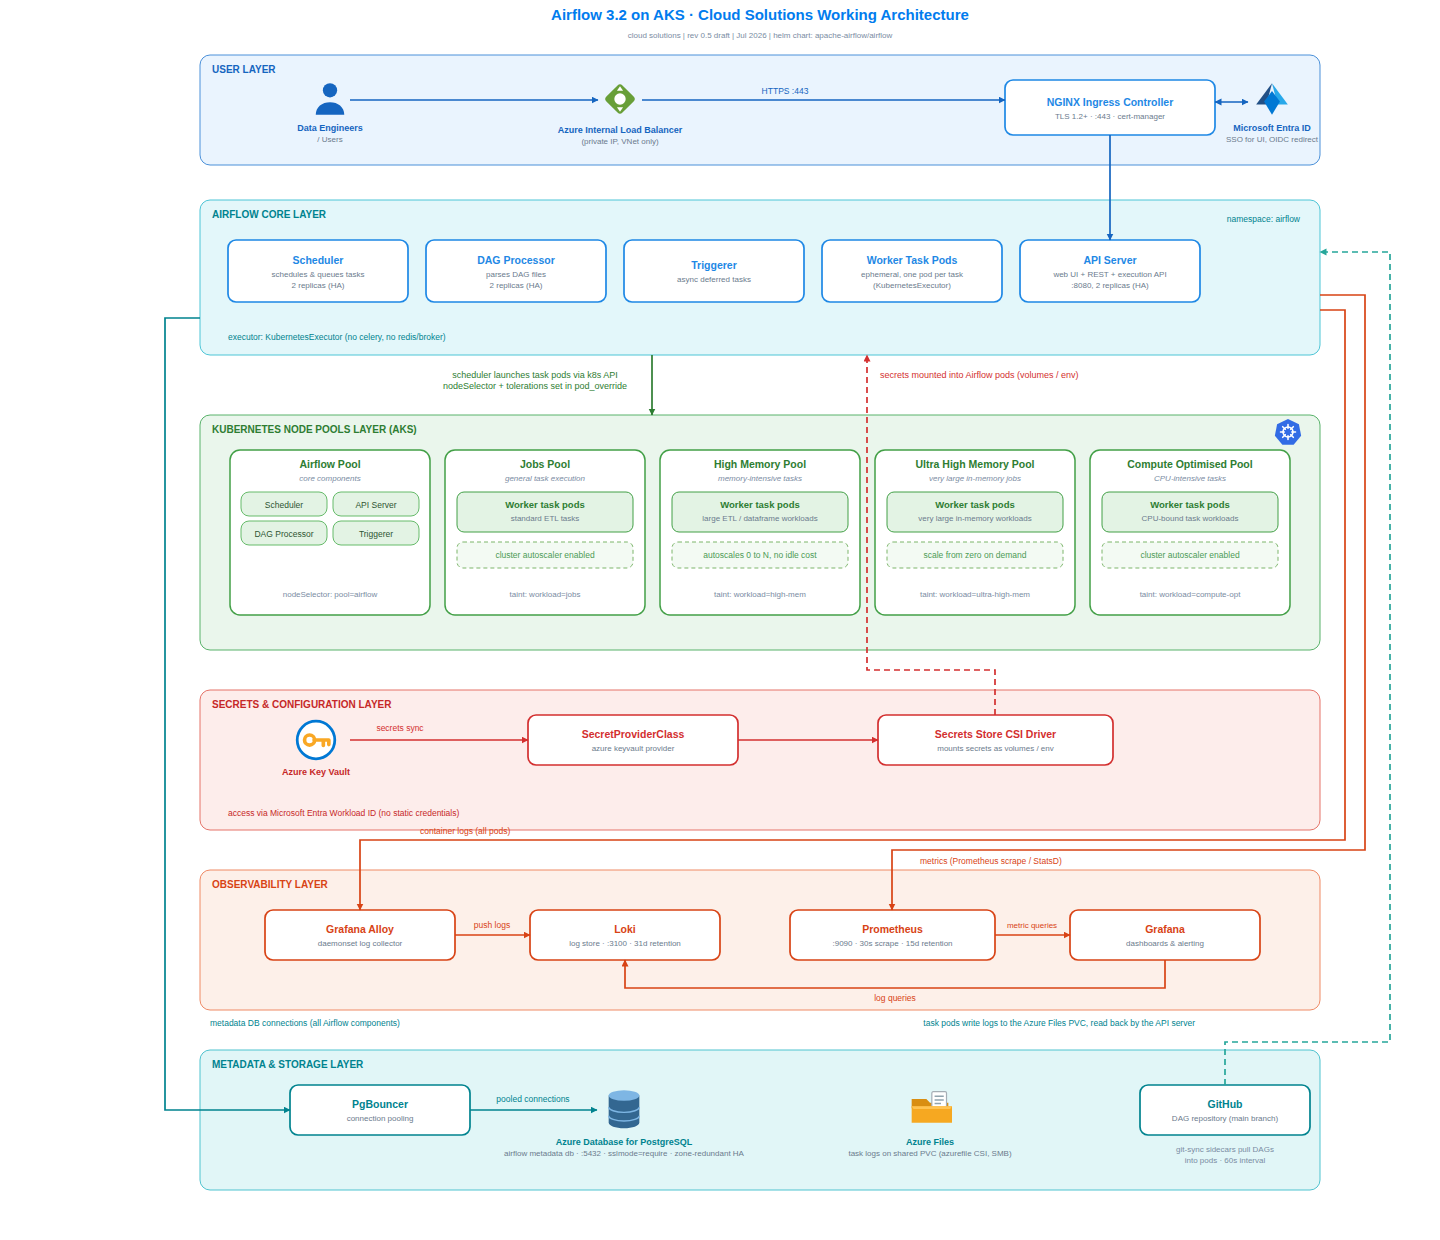
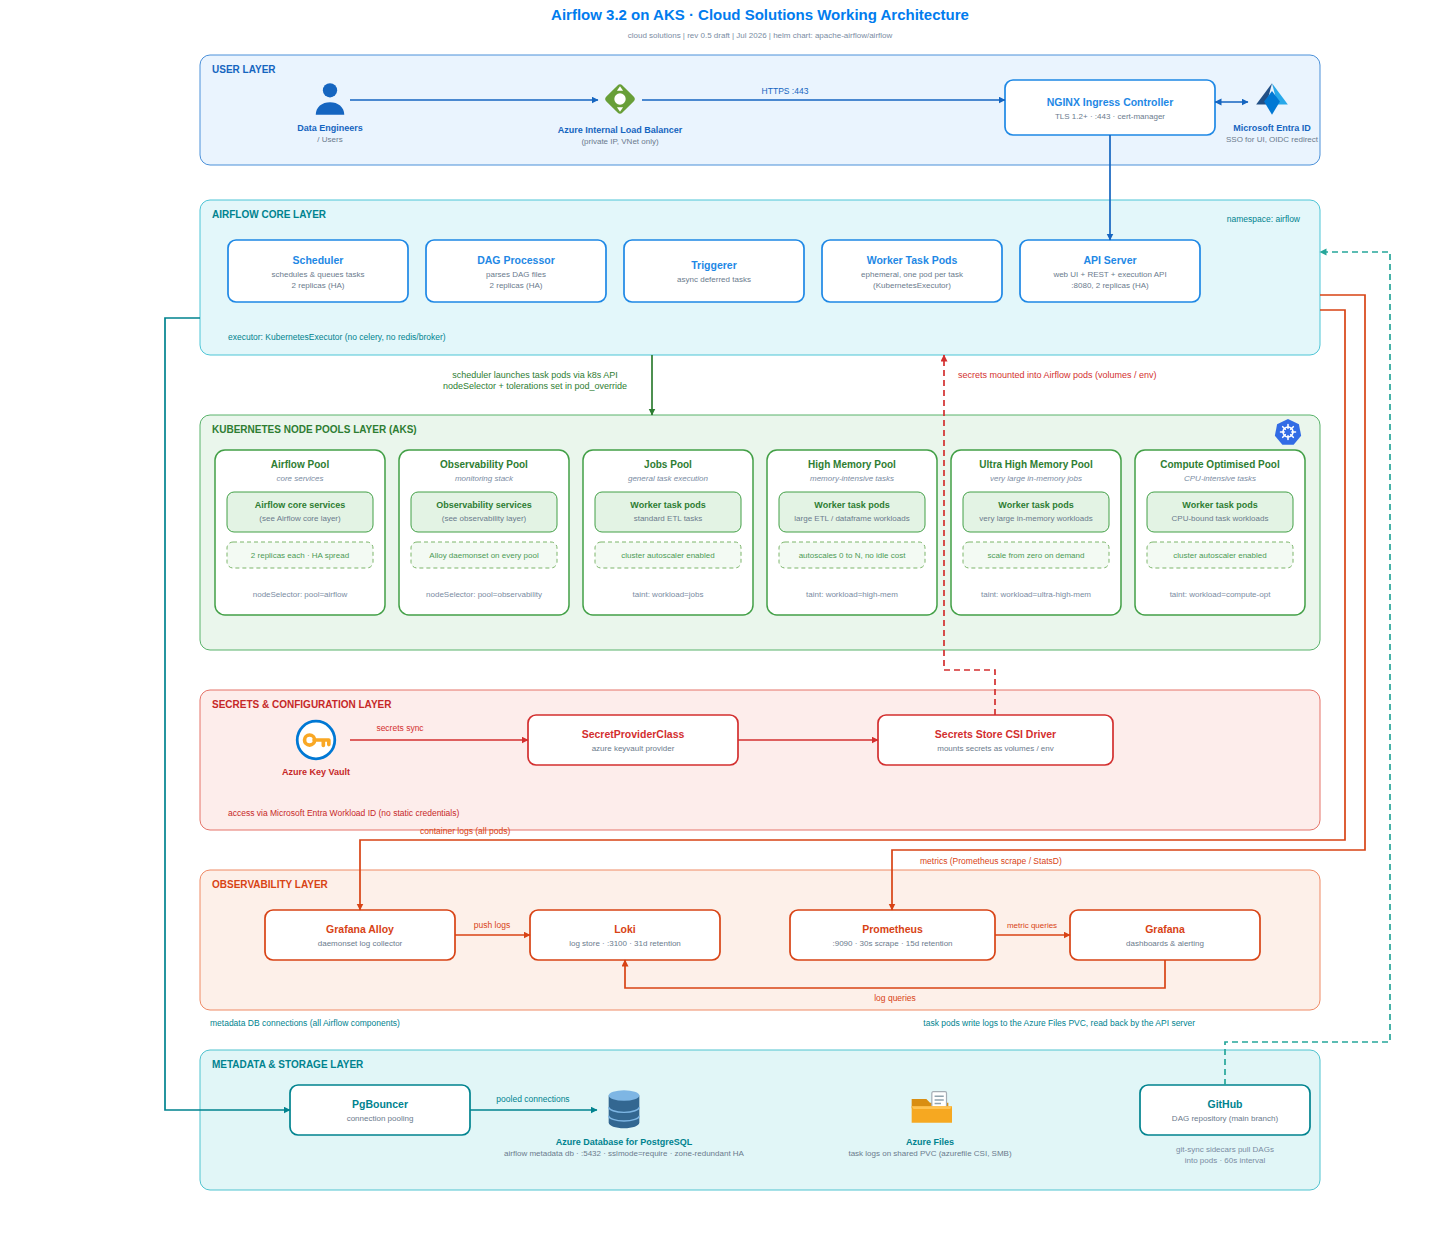
Add Observability Pool and de-duplicate component placement in pools
Node pools now state placement only (nodeSelector/taint, autoscaling)
while components stay detailed in their own layers: the Airflow Pool
references the core layer, and a new Observability Pool hosts the
monitoring stack with Alloy noted as a daemonset on every pool. The
secrets mount line moves to the gap between the resized pools.

Claude-Session: https://claude.ai/code/session_01CHBJxQA6RhaoVpnEP1yZFL

Changed region(s): [[0.1562, 0.3677, 0.9062, 0.4903], [0.625, 0.2758, 0.7812, 0.3065]]

diff --git a/architecture/generate_diagram.py b/architecture/generate_diagram.py
@@ -65,19 +65,28 @@ BOXES = [
 ]
 
 # ------------------------------------------------------------------ pools --
-POOL_Y, POOL_W, POOL_H = 450, 200, 165
-# x, title, subtitle, kind ('core' with chips | 'worker'), detail lines
+POOL_Y, POOL_W, POOL_H = 450, 170, 165
+# x, title, subtitle, desc_title, desc_sub, dashed_note, foot
+# components are detailed once, in their own layer; pools only state placement
 POOLS = [
-    (230, "Airflow Pool",           "core components",         "core",
-     ["Scheduler", "API Server", "DAG Processor", "Triggerer"], "nodeSelector: pool=airflow"),
-    (445, "Jobs Pool",              "general task execution",  "worker",
-     ["standard ETL tasks", "cluster autoscaler enabled"],      "taint: workload=jobs"),
-    (660, "High Memory Pool",       "memory-intensive tasks",  "worker",
-     ["large ETL / dataframe workloads", "autoscales 0 to N, no idle cost"], "taint: workload=high-mem"),
-    (875, "Ultra High Memory Pool", "very large in-memory jobs", "worker",
-     ["very large in-memory workloads", "scale from zero on demand"], "taint: workload=ultra-high-mem"),
-    (1090, "Compute Optimised Pool", "CPU-intensive tasks",    "worker",
-     ["CPU-bound task workloads", "cluster autoscaler enabled"], "taint: workload=compute-opt"),
+    (215, "Airflow Pool",           "core services",
+     "Airflow core services", "(see Airflow core layer)",
+     "2 replicas each · HA spread",     "nodeSelector: pool=airflow"),
+    (399, "Observability Pool",     "monitoring stack",
+     "Observability services", "(see observability layer)",
+     "Alloy daemonset on every pool",   "nodeSelector: pool=observability"),
+    (583, "Jobs Pool",              "general task execution",
+     "Worker task pods", "standard ETL tasks",
+     "cluster autoscaler enabled",      "taint: workload=jobs"),
+    (767, "High Memory Pool",       "memory-intensive tasks",
+     "Worker task pods", "large ETL / dataframe workloads",
+     "autoscales 0 to N, no idle cost", "taint: workload=high-mem"),
+    (951, "Ultra High Memory Pool", "very large in-memory jobs",
+     "Worker task pods", "very large in-memory workloads",
+     "scale from zero on demand",       "taint: workload=ultra-high-mem"),
+    (1135, "Compute Optimised Pool", "CPU-intensive tasks",
+     "Worker task pods", "CPU-bound task workloads",
+     "cluster autoscaler enabled",      "taint: workload=compute-opt"),
 ]
 
 # ------------------------------------------------------------------ icons --
@@ -130,7 +139,7 @@ EDGES = [
     ("laun", GREENL, False, False, [(652, 355), (652, 415)]),
     ("kv1",  RED,   False, False, [(350, 740), (528, 740)]),
     ("kv2",  RED,   False, False, [(738, 740), (878, 740)]),
-    ("sec",  RED,   True,  False, [(995, 715), (995, 670), (867, 670), (867, 355)]),
+    ("sec",  RED,   True,  False, [(995, 715), (995, 670), (944, 670), (944, 355)]),
     ("logs", OBS,   False, False, [(1320, 310), (1345, 310), (1345, 840), (360, 840), (360, 910)]),
     ("mets", OBS,   False, False, [(1320, 295), (1365, 295), (1365, 850), (892, 850), (892, 910)]),
     ("o1",   OBS,   False, False, [(455, 935), (530, 935)]),
@@ -149,7 +158,7 @@ NOTES = [
     ("executor: KubernetesExecutor (no celery, no redis/broker)", 228, 340, 8.5, TEALD, "left"),
     ("scheduler launches task pods via k8s API\nnodeSelector + tolerations set in pod_override",
                                                               535,  378, 9,   GREENL, "center"),
-    ("secrets mounted into Airflow pods (volumes / env)",     880,  378, 9,   RED,   "left"),
+    ("secrets mounted into Airflow pods (volumes / env)",     958,  378, 9,   RED,   "left"),
     ("secrets sync",                                          400,  731, 8.5, RED,   "center"),
     ("access via Microsoft Entra Workload ID (no static credentials)", 228, 816, 8.5, REDT, "left"),
     ("container logs (all pods)",                             420,  834, 8.5, OBS,   "left"),
@@ -210,7 +219,7 @@ def drawio() -> str:
             f"spacingTop=4;fontSize=10;fontStyle=1;fontColor={fc};", x, y, w, h)
 
     # pools
-    for px, ptitle, psub, kind, details, foot in POOLS:
+    for px, ptitle, psub, dtitle, dsub, dashed_note, foot in POOLS:
         pid = "pool" + str(px)
         vtx(pid,
             f'<b>{escape(ptitle)}</b><br/><font style="font-size:8px;" color="{GRAYT}">'
@@ -218,23 +227,15 @@ def drawio() -> str:
             f"rounded=1;arcSize=10;html=1;whiteSpace=wrap;fillColor=#FFFFFF;"
             f"strokeColor={GREENB};strokeWidth=1.5;verticalAlign=top;spacingTop=2;"
             f"fontSize=10;fontColor={GREENL};", px, POOL_Y, POOL_W, POOL_H)
-        if kind == "core":
-            for i, chip in enumerate(details):
-                cx0 = px + 11 + (i % 2) * 92
-                cy0 = POOL_Y + 42 + (i // 2) * 29
-                vtx(f"{pid}_c{i}", chip,
-                    f"rounded=1;arcSize=30;html=1;fillColor=#E3F3E4;strokeColor=#66BB6A;"
-                    f"fontSize=8.5;fontColor=#2E5432;", cx0, cy0, 86, 24)
-        else:
-            vtx(f"{pid}_w", f'<b>Worker task pods</b><br/>'
-                f'<font style="font-size:8px;" color="{SUBG}">{escape(details[0])}</font>',
-                f"rounded=1;arcSize=14;html=1;whiteSpace=wrap;fillColor=#E3F3E4;"
-                f"strokeColor={GREENB};fontSize=9;fontColor={GREENL};align=center;"
-                f"verticalAlign=middle;", px + 12, POOL_Y + 42, 176, 40)
-            vtx(f"{pid}_d", details[1],
-                f"rounded=1;arcSize=20;html=1;whiteSpace=wrap;fillColor=#F3FAF3;"
-                f"strokeColor=#7CB56A;dashed=1;fontSize=8.5;fontColor=#4C9A55;",
-                px + 12, POOL_Y + 92, 176, 26)
+        vtx(f"{pid}_w", f'<b>{escape(dtitle)}</b><br/>'
+            f'<font style="font-size:8px;" color="{SUBG}">{escape(dsub)}</font>',
+            f"rounded=1;arcSize=14;html=1;whiteSpace=wrap;fillColor=#E3F3E4;"
+            f"strokeColor={GREENB};fontSize=9;fontColor={GREENL};align=center;"
+            f"verticalAlign=middle;", px + 12, POOL_Y + 42, POOL_W - 24, 40)
+        vtx(f"{pid}_d", dashed_note,
+            f"rounded=1;arcSize=20;html=1;whiteSpace=wrap;fillColor=#F3FAF3;"
+            f"strokeColor=#7CB56A;dashed=1;fontSize=8;fontColor=#4C9A55;",
+            px + 12, POOL_Y + 92, POOL_W - 24, 26)
         note(f"{pid}_f", foot, px, POOL_Y + 138, POOL_W, 8, GRAYT, "center")
 
     for bid, btitle, subs, col, x, y, w, h in BOXES:
@@ -335,28 +336,20 @@ def svg() -> str:
         text(x + 12, y + 18, label, 10, fc, bold=True)
 
     # pools
-    for px, ptitle, psub, kind, details, foot in POOLS:
+    for px, ptitle, psub, dtitle, dsub, dashed_note, foot in POOLS:
         out.append(f'<rect x="{px}" y="{POOL_Y}" width="{POOL_W}" height="{POOL_H}" rx="10" '
                    f'fill="#ffffff" stroke="{GREENB}" stroke-width="1.5"/>')
-        text(px + POOL_W / 2, POOL_Y + 18, ptitle, 10.5, GREENL, anchor="middle", bold=True)
+        text(px + POOL_W / 2, POOL_Y + 18, ptitle, 10, GREENL, anchor="middle", bold=True)
         text(px + POOL_W / 2, POOL_Y + 31, psub, 8, GRAYT, anchor="middle", italic=True)
-        if kind == "core":
-            for i, chip in enumerate(details):
-                cx0 = px + 11 + (i % 2) * 92
-                cy0 = POOL_Y + 42 + (i // 2) * 29
-                out.append(f'<rect x="{cx0}" y="{cy0}" width="86" height="24" rx="8" '
-                           f'fill="#E3F3E4" stroke="#66BB6A"/>')
-                text(cx0 + 43, cy0 + 15.5, chip, 8.5, "#2E5432", anchor="middle")
-        else:
-            bx = px + 12
-            out.append(f'<rect x="{bx}" y="{POOL_Y + 42}" width="176" height="40" rx="7" '
-                       f'fill="#E3F3E4" stroke="{GREENB}"/>')
-            text(px + POOL_W / 2, POOL_Y + 58, "Worker task pods", 9.5, GREENL,
-                 anchor="middle", bold=True)
-            text(px + POOL_W / 2, POOL_Y + 71, details[0], 8, SUBG, anchor="middle")
-            out.append(f'<rect x="{bx}" y="{POOL_Y + 92}" width="176" height="26" rx="6" '
-                       f'fill="#F3FAF3" stroke="#7CB56A" stroke-dasharray="4,3"/>')
-            text(px + POOL_W / 2, POOL_Y + 108, details[1], 8.5, "#4C9A55", anchor="middle")
+        bx = px + 12
+        bw = POOL_W - 24
+        out.append(f'<rect x="{bx}" y="{POOL_Y + 42}" width="{bw}" height="40" rx="7" '
+                   f'fill="#E3F3E4" stroke="{GREENB}"/>')
+        text(px + POOL_W / 2, POOL_Y + 58, dtitle, 9, GREENL, anchor="middle", bold=True)
+        text(px + POOL_W / 2, POOL_Y + 71, dsub, 8, SUBG, anchor="middle")
+        out.append(f'<rect x="{bx}" y="{POOL_Y + 92}" width="{bw}" height="26" rx="6" '
+                   f'fill="#F3FAF3" stroke="#7CB56A" stroke-dasharray="4,3"/>')
+        text(px + POOL_W / 2, POOL_Y + 108, dashed_note, 8, "#4C9A55", anchor="middle")
         text(px + POOL_W / 2, POOL_Y + 147, foot, 8, GRAYT, anchor="middle")
 
     for _, btitle, subs, col, x, y, w, h in BOXES:

diff --git a/architecture/README.md b/architecture/README.md
@@ -32,8 +32,12 @@ can never appear as broken images.
    pod per task, KubernetesExecutor — no celery, no redis/broker), API Server
    (web UI + REST + execution API, :8080, 2 replicas HA).
 3. **Kubernetes Node Pools Layer (AKS)** — the scheduler launches task pods
-   via the k8s API; nodeSelector + tolerations set in `pod_override`:
-   - **Airflow Pool** — core components (`nodeSelector: pool=airflow`)
+   via the k8s API; nodeSelector + tolerations set in `pod_override`.
+   Components are detailed once in their own layer; pools state placement:
+   - **Airflow Pool** — Airflow core services (`nodeSelector: pool=airflow`)
+   - **Observability Pool** — monitoring stack
+     (`nodeSelector: pool=observability`); Alloy runs as a daemonset on
+     every pool
    - **Jobs Pool** — standard ETL tasks (`taint: workload=jobs`)
    - **High Memory Pool** — large ETL / dataframe workloads
      (`taint: workload=high-mem`), autoscales 0→N
